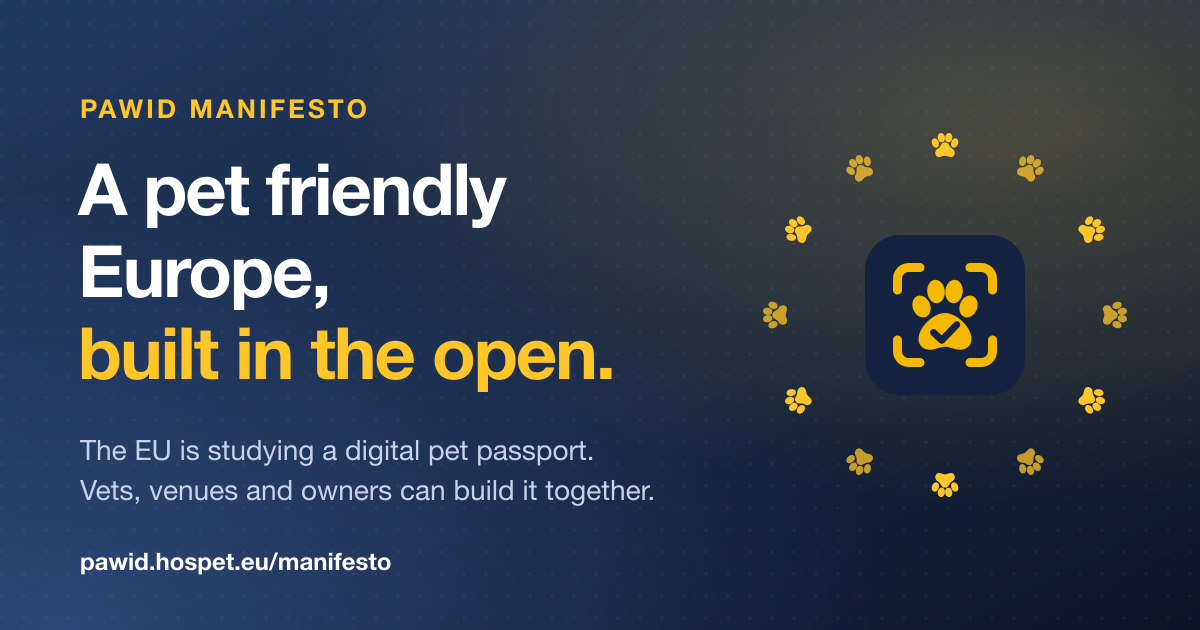
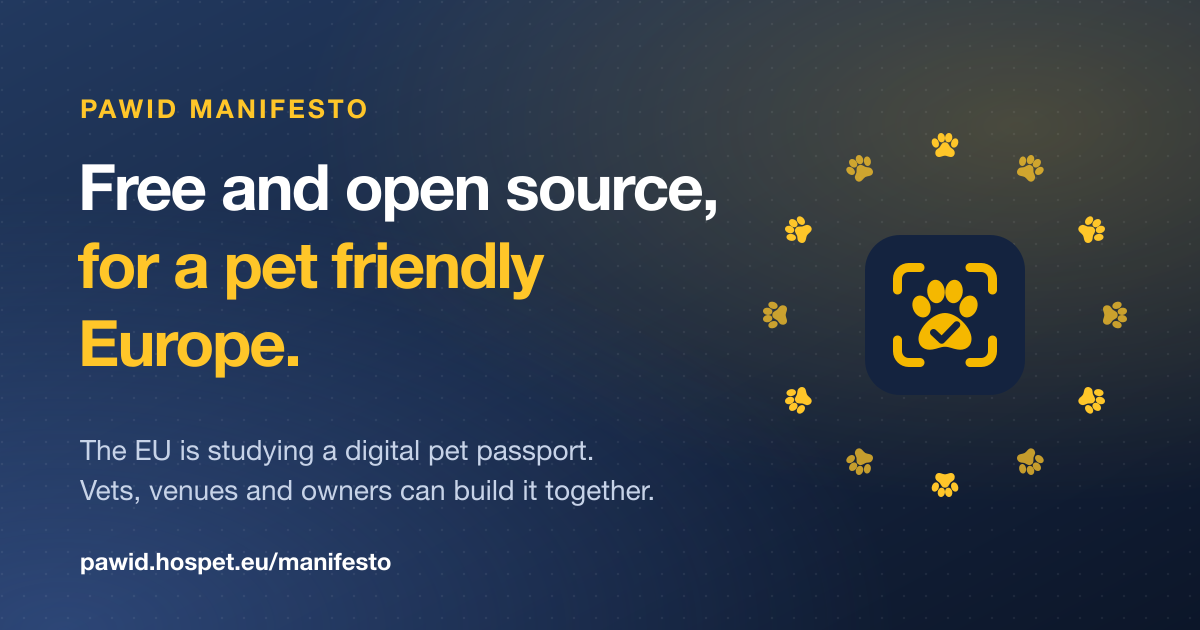
Manifesto title: Free and open source, for a pet friendly Europe (owner's pick). Page heading, share text, social preview tags, email and Reddit titles, the preview picture (redrawn, v=2 so networks fetch it again) and the README link.

Changed region(s): [[0.0617, 0.2413, 0.6167, 0.6333]]

diff --git a/apps/web/src/manifesto.ts b/apps/web/src/manifesto.ts
@@ -9,7 +9,7 @@ injectStyles();
 moveToNewAddress();
 
 const URL_ = "https://pawid.hospet.eu/manifesto";
-const SHARE_TEXT = "The EU is studying a digital pet passport. PawID is a free, open source way to build it together with vets, venues and pet owners across Europe.";
+const SHARE_TEXT = "Free and open source, for a pet friendly Europe. The EU is studying a digital pet passport: with PawID, vets, venues and pet owners can build it together.";
 
 const css = document.createElement("style");
 css.textContent = `
@@ -78,10 +78,10 @@ function shareBar(): HTMLElement {
     ["linkedin", "linkedin", `https://www.linkedin.com/sharing/share-offsite/?url=${u}`],
     ["whatsapp", "whatsapp", `https://wa.me/?text=${both}`],
     ["telegram", "telegram", `https://t.me/share/url?url=${u}&text=${t}`],
-    ["reddit", "reddit", `https://www.reddit.com/submit?url=${u}&title=${encodeURIComponent("A pet friendly Europe, built in the open: the PawID manifesto")}`],
+    ["reddit", "reddit", `https://www.reddit.com/submit?url=${u}&title=${encodeURIComponent("Free and open source, for a pet friendly Europe: the PawID manifesto")}`],
     ["bluesky", "bluesky", `https://bsky.app/intent/compose?text=${both}`],
     ["threads", "threads", `https://www.threads.net/intent/post?text=${both}`],
-    ["mail", "mail", `mailto:?subject=${encodeURIComponent("A pet friendly Europe, built in the open")}&body=${both}`],
+    ["mail", "mail", `mailto:?subject=${encodeURIComponent("Free and open source, for a pet friendly Europe")}&body=${both}`],
   ];
   const label: Record<string, string> = { x: "X", facebook: "Facebook", linkedin: "LinkedIn", whatsapp: "WhatsApp", telegram: "Telegram", reddit: "Reddit", bluesky: "Bluesky", threads: "Threads", mail: "Email" };
   const status = el("p", { attrs: { role: "status" } });
@@ -99,7 +99,7 @@ function shareBar(): HTMLElement {
   copy.replaceChildren(svg("copy"));
   if ("share" in navigator) {
     const more = el("button", { type: "button", class: "s-more", attrs: { "aria-label": "Share with another app", title: "More" } }, svg("share"));
-    more.addEventListener("click", () => void navigator.share({ title: "A pet friendly Europe, built in the open", text: SHARE_TEXT, url: URL_ }).catch(() => {}));
+    more.addEventListener("click", () => void navigator.share({ title: "Free and open source, for a pet friendly Europe", text: SHARE_TEXT, url: URL_ }).catch(() => {}));
     row.append(more);
   }
   return el("div", { class: "share" }, row, status);
@@ -115,7 +115,7 @@ const src = (href: string, text: string) => el("li", {}, el("a", { href, class: 
 const main = el("main", { id: "main" },
   el("section", { class: "m-hero" },
     el("p", { class: "m-kicker" }, "PawID manifesto"),
-    el("h1", {}, "A pet friendly Europe, ", el("em", {}, "built in the open.")),
+    el("h1", {}, "Free and open source, ", el("em", {}, "for a pet friendly Europe.")),
     el("p", {}, "Many people travel in Europe with a dog or a cat. The rules are changing, and the European Union is studying a digital pet passport. We think the tools for it should belong to everyone: free, open source, and built with the vets, venues and owners who use them."),
     shareBar(),
   ),

diff --git a/apps/web/manifesto.html b/apps/web/manifesto.html
@@ -4,22 +4,22 @@
     <meta charset="utf-8" />
     <meta name="viewport" content="width=device-width, initial-scale=1" />
     <meta name="theme-color" content="#14233f" />
-    <title>A pet friendly Europe, built in the open | PawID manifesto</title>
-    <meta name="description" content="The EU is studying a digital pet passport. What it plans, who asked for it, what exists, what is missing, and why an open source PawID built with vets, venues and pet owners can make Europe pet friendly." />
+    <title>Free and open source, for a pet friendly Europe | PawID manifesto</title>
+    <meta name="description" content="The EU is studying a digital pet passport. What it plans, who asked for it, what exists, what is missing, and why a free, open source PawID built with vets, venues and pet owners can make Europe pet friendly." />
     <link rel="canonical" href="https://pawid.hospet.eu/manifesto" />
     <meta property="og:type" content="article" />
     <meta property="og:site_name" content="PawID" />
-    <meta property="og:title" content="A pet friendly Europe, built in the open" />
+    <meta property="og:title" content="Free and open source, for a pet friendly Europe" />
     <meta property="og:description" content="The EU is studying a digital pet passport. PawID is a free, open source way to build it together with vets, venues and pet owners across Europe." />
     <meta property="og:url" content="https://pawid.hospet.eu/manifesto" />
-    <meta property="og:image" content="https://pawid.hospet.eu/og/manifesto.png" />
+    <meta property="og:image" content="https://pawid.hospet.eu/og/manifesto.png?v=2" />
     <meta property="og:image:width" content="1200" />
     <meta property="og:image:height" content="630" />
-    <meta property="og:image:alt" content="PawID manifesto: a pet friendly Europe, built in the open" />
+    <meta property="og:image:alt" content="PawID manifesto: free and open source, for a pet friendly Europe" />
     <meta name="twitter:card" content="summary_large_image" />
-    <meta name="twitter:title" content="A pet friendly Europe, built in the open" />
+    <meta name="twitter:title" content="Free and open source, for a pet friendly Europe" />
     <meta name="twitter:description" content="The EU is studying a digital pet passport. PawID is a free, open source way to build it together." />
-    <meta name="twitter:image" content="https://pawid.hospet.eu/og/manifesto.png" />
+    <meta name="twitter:image" content="https://pawid.hospet.eu/og/manifesto.png?v=2" />
     <link rel="icon" href="/icons/icon.svg" type="image/svg+xml" />
     <link rel="manifest" href="/manifest.webmanifest" />
     <link rel="apple-touch-icon" href="/icons/apple-touch-icon.png" />

diff --git a/scripts/og-image.ts b/scripts/og-image.ts
@@ -27,9 +27,9 @@ ${stars}
 <g transform="translate(865 235) scale(2.5)">${PAWID_MARK_BODY}</g>
 <text x="80" y="118" font-family="${font}" font-size="26" font-weight="700" fill="#ffc629" letter-spacing="3">PAWID MANIFESTO</text>
 <text font-family="${font}" font-weight="800" fill="#ffffff" letter-spacing="-2">
-  <tspan x="78" y="215" font-size="72">A pet friendly</tspan>
-  <tspan x="78" y="297" font-size="72">Europe,</tspan>
-  <tspan x="78" y="379" font-size="72" fill="#ffc629">built in the open.</tspan>
+  <tspan x="78" y="210" font-size="64">Free and open source,</tspan>
+  <tspan x="78" y="288" font-size="64" fill="#ffc629">for a pet friendly</tspan>
+  <tspan x="78" y="366" font-size="64" fill="#ffc629">Europe.</tspan>
 </text>
 <text font-family="${font}" font-size="28" fill="#c7d3e8">
   <tspan x="80" y="460">The EU is studying a digital pet passport.</tspan>

diff --git a/README.md b/README.md
@@ -25,7 +25,7 @@
   <img src="apps/web/public/shots/share.webp" alt="A QR code to show a hotel, valid for 15 minutes" width="220">
 </p>
 
-Read the manifesto: [A pet friendly Europe, built in the open](https://pawid.hospet.eu/manifesto).
+Read the manifesto: [Free and open source, for a pet friendly Europe](https://pawid.hospet.eu/manifesto).
 
 ## The problem
 
